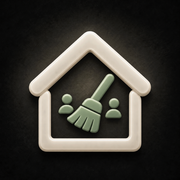
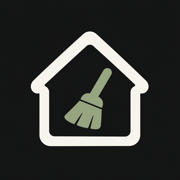
Refresh Ours app and Pro branding

Changed region(s): [[0.1389, 0.1389, 0.8611, 0.8611]]

diff --git a/ours/index.html b/ours/index.html
@@ -10,12 +10,12 @@
   <meta property="og:title" content="Ours: Shared Chores">
   <meta property="og:description" content="A home you share. A list you share. Bring your people together with shared chores, clear due dates, and little rewards.">
   <meta property="og:url" content="https://ajpicard.design/ours/">
-  <meta property="og:image" content="https://ajpicard.design/ours/assets/ours-app-icon.png">
+  <meta property="og:image" content="https://ajpicard.design/ours/assets/ours-app-icon.png?v=20261113">
   <meta property="og:image:alt" content="The Ours shared household app icon.">
   <title>Ours: Shared Chores</title>
   <link rel="canonical" href="https://ajpicard.design/ours/">
-  <link rel="icon" type="image/png" href="assets/ours-favicon.png">
-  <link rel="apple-touch-icon" href="assets/ours-apple-touch-icon.png">
+  <link rel="icon" type="image/png" href="assets/ours-favicon.png?v=20261113">
+  <link rel="apple-touch-icon" href="assets/ours-apple-touch-icon.png?v=20261113">
   <link rel="stylesheet" href="styles.css">
   <script src="site.js" defer></script>
 </head>
@@ -24,7 +24,7 @@
   <header class="site-header">
     <nav class="shell nav" aria-label="Main navigation">
       <a class="brand" href="#top" aria-label="Ours home">
-        <img src="assets/ours-brand-icon.webp" width="40" height="40" alt="">
+        <img src="assets/ours-brand-icon.png?v=20261113" width="40" height="40" alt="">
         <span>Ours<span class="brand-descriptor">Shared Chores</span></span>
       </a>
       <div class="nav-links">
@@ -196,7 +196,7 @@
 
     <section class="section pro" id="pro" aria-labelledby="pro-title">
       <div class="shell pro-layout" data-reveal>
-        <div class="pro-brand"><img src="assets/ours-app-icon.webp" width="112" height="112" loading="lazy" alt="Ours Pro house, broom, and shared household icon."></div>
+        <div class="pro-brand"><img src="assets/ours-pro-icon.png?v=20261113" width="112" height="112" loading="lazy" alt="Ours Pro house and sage broom icon."></div>
         <div>
           <p class="eyebrow">Ours Pro</p>
           <h2 id="pro-title">A plan for your people.</h2>
@@ -218,7 +218,7 @@
 
   <footer class="site-footer">
     <div class="shell footer-inner">
-      <a class="brand" href="#top" aria-label="Ours home"><img src="assets/ours-brand-icon.webp" width="32" height="32" alt=""><span>Ours<span class="brand-descriptor">Shared Chores</span></span></a>
+      <a class="brand" href="#top" aria-label="Ours home"><img src="assets/ours-brand-icon.png?v=20261113" width="32" height="32" alt=""><span>Ours<span class="brand-descriptor">Shared Chores</span></span></a>
       <span>Made for the people you call home.</span>
       <a href="#top">Back to top</a>
     </div>
